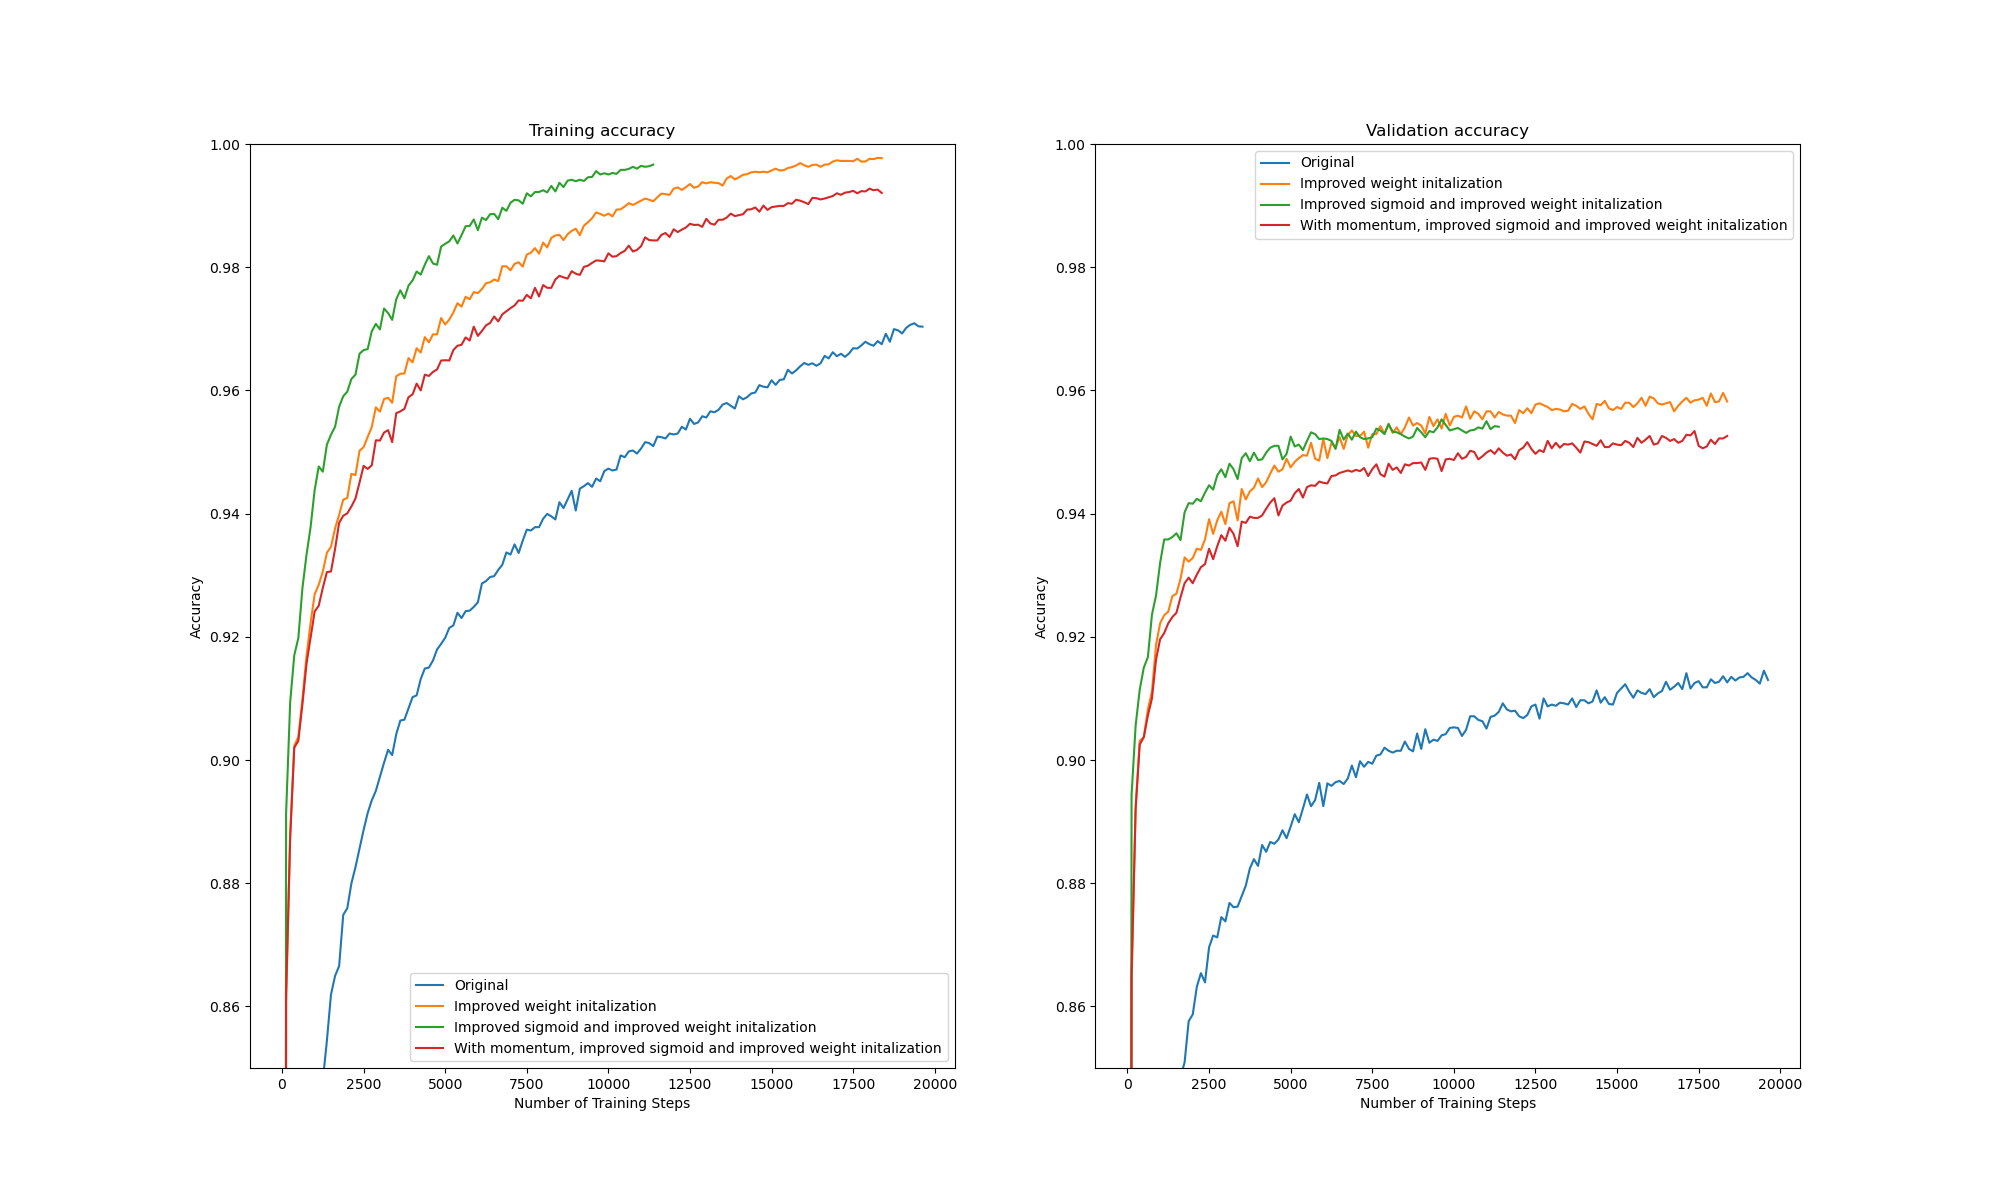
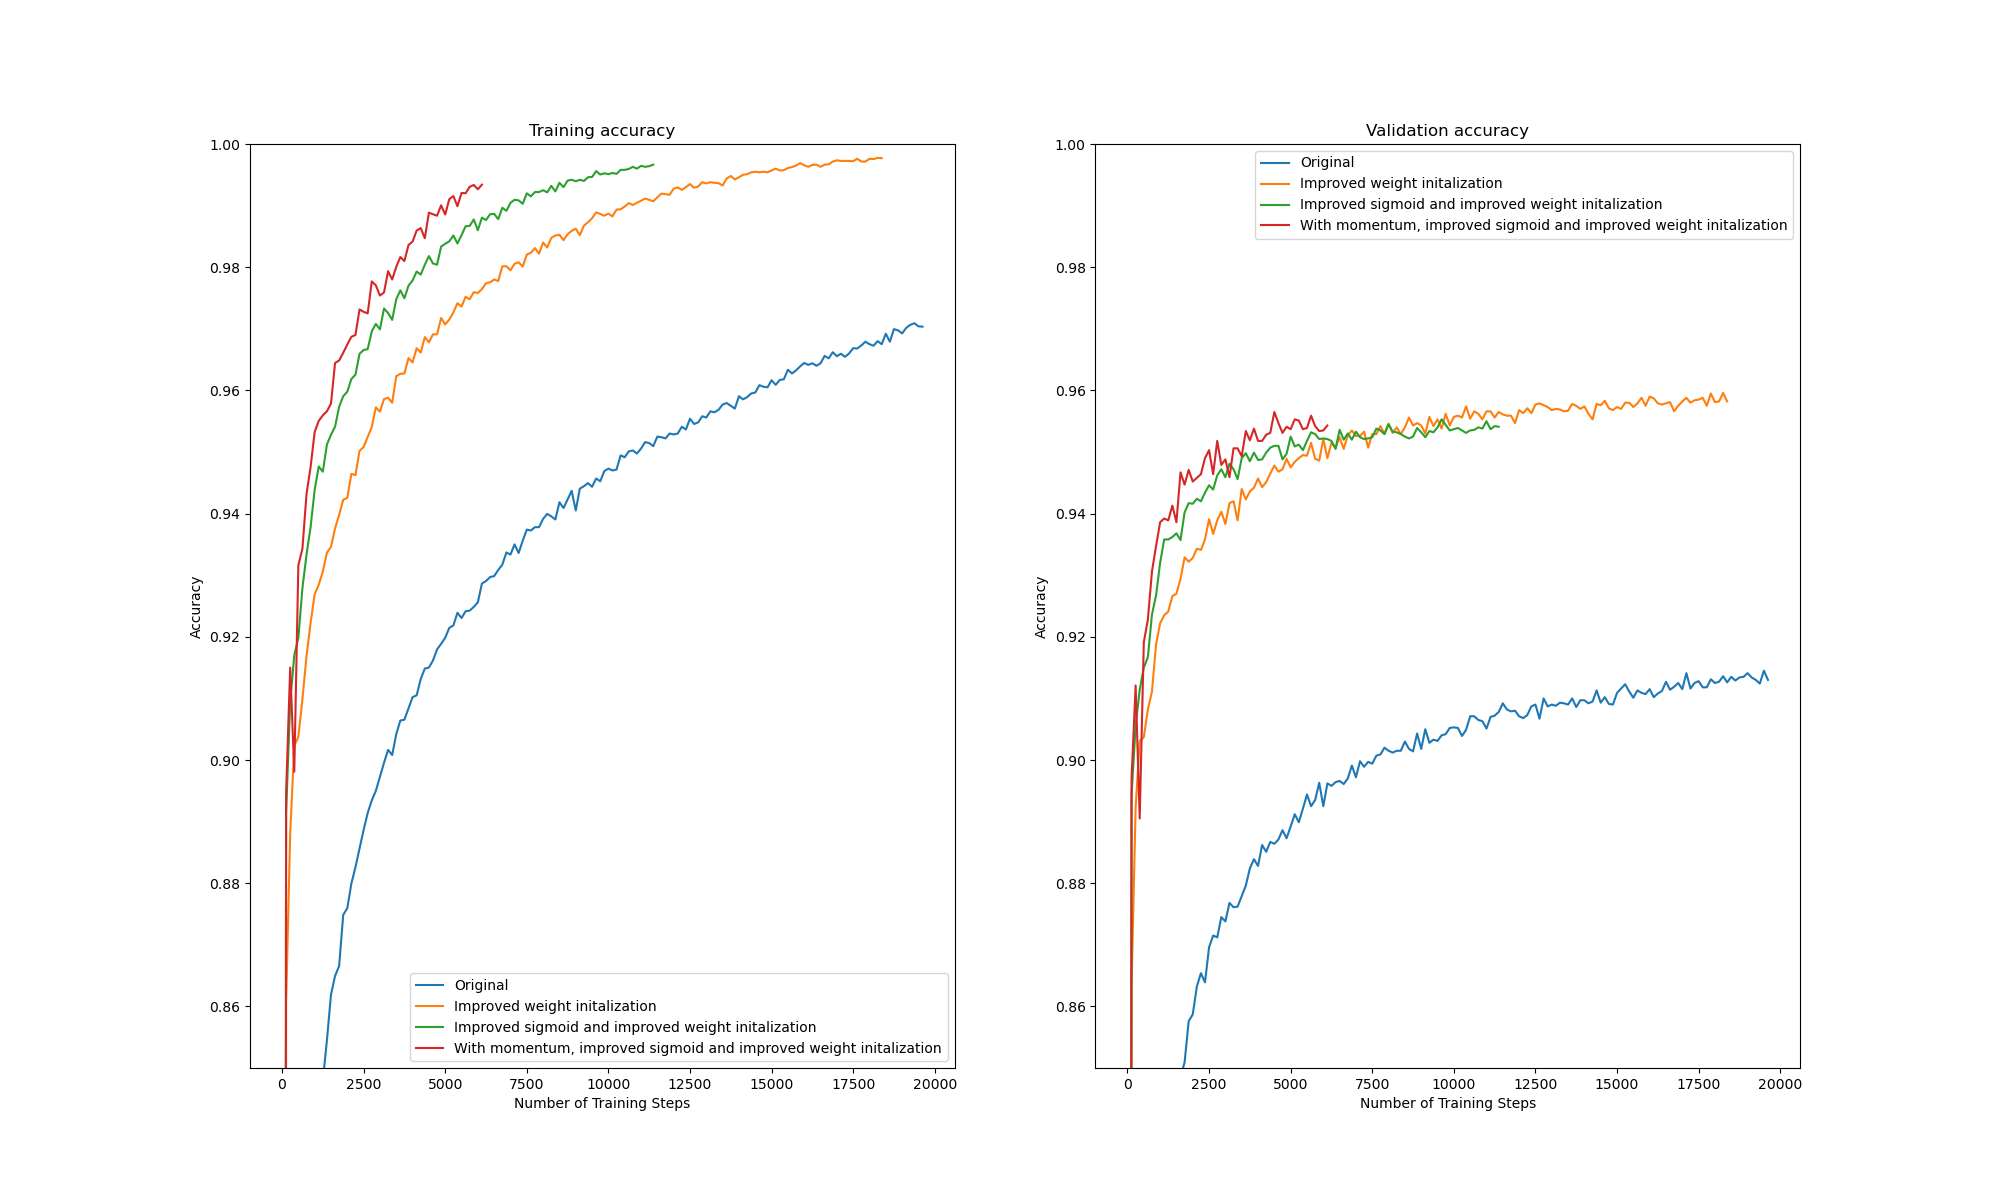
Fixed momentum

diff --git a/assignment_2/task2.py b/assignment_2/task2.py
@@ -62,9 +62,9 @@ class SoftmaxTrainer(BaseTrainer):
         # Since self.grads is a list we loop over it and apply the gradient update step to each layer
         for i, gradients in enumerate(self.model.grads):
             if self.use_momentum:
-                self.model.ws[i] -= self.learning_rate * \
-                    (gradients + self.momentum_gamma * self.previous_grads[i])
-                self.previous_grads[i] = gradients
+                self.model.ws[i] -= self.learning_rate * self.previous_grads[i]
+                self.previous_grads[i] = gradients + \
+                    self.momentum_gamma * self.previous_grads[i]
             else:
                 self.model.ws[i] -= self.learning_rate * gradients
 
